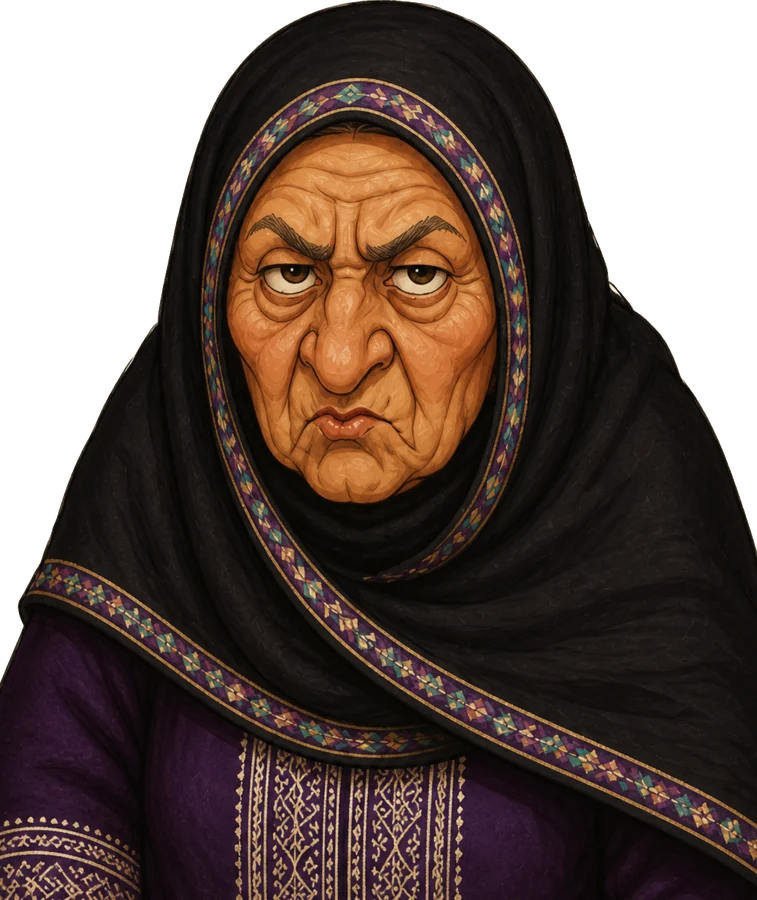
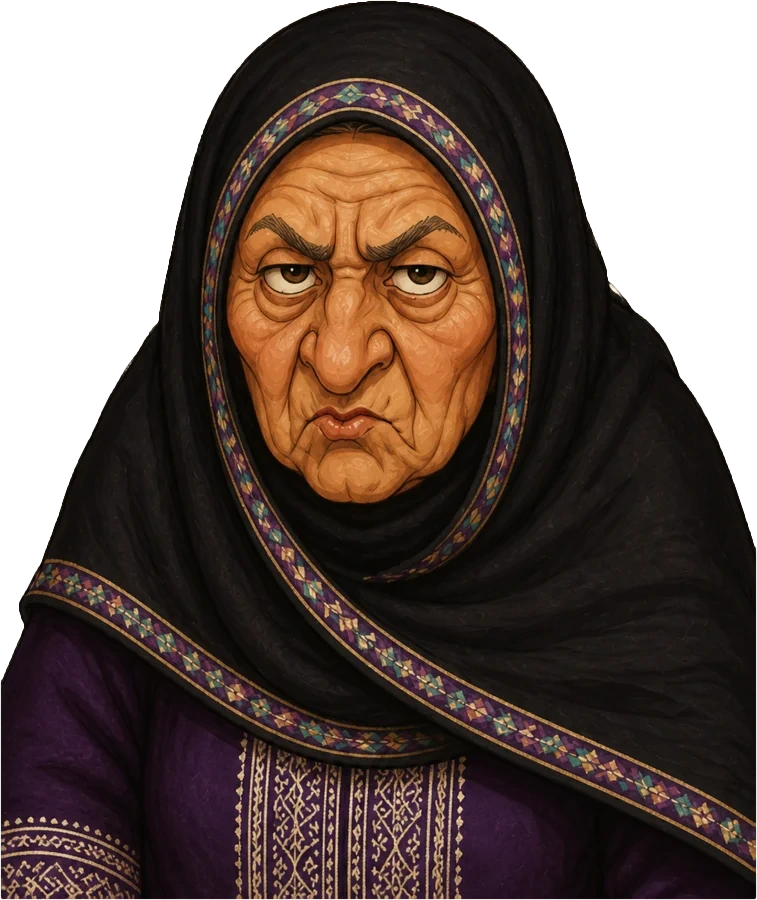
Cleaner character cut-outs, no shadow behind them
Claude-Session: https://claude.ai/code/session_01FGyGpGpRm57zRrxfNTDffQ

Changed region(s): [[0.0, 0.9956, 1.0, 1.0]]

diff --git a/sw.js b/sw.js
@@ -1,5 +1,5 @@
 /* Jeerah offline cache */
-const V='jeerah-202611262027';
+const V='jeerah-202611262046';
 const FILES=["app.css", "app.js", "assets/ad/mohup.png", "assets/ad/qr.svg", "assets/ad/sakna.png", "assets/audio/Ding.mp3", "assets/audio/alarm.mp3", "assets/audio/bgm.mp3", "assets/audio/chimes.mp3", "assets/audio/click_2.mp3", "assets/audio/ding_deep.mp3", "assets/audio/dum.mp3", "assets/audio/negative_sound.mp3", "assets/audio/voCouncil.mp3", "assets/audio/voEvening.mp3", "assets/audio/voMorning.mp3", "assets/audio/voPostEvening.mp3", "assets/audio/voWinGood.mp3", "assets/audio/voWinJester.mp3", "assets/audio/voWinSab.mp3", "assets/ch/complainer-bust.webp", "assets/ch/complainer-f-bust.webp", "assets/ch/complainer-f-face.webp", "assets/ch/complainer-f-full.webp", "assets/ch/complainer-face.webp", "assets/ch/complainer-full.webp", "assets/ch/fixer-bust.webp", "assets/ch/fixer-f-bust.webp", "assets/ch/fixer-f-face.webp", "assets/ch/fixer-f-full.webp", "assets/ch/fixer-face.webp", "assets/ch/fixer-full.webp", "assets/ch/legal-bust.webp", "assets/ch/legal-f-bust.webp", "assets/ch/legal-f-face.webp", "assets/ch/legal-f-full.webp", "assets/ch/legal-face.webp", "assets/ch/legal-full.webp", "assets/ch/resident-bust.webp", "assets/ch/resident-f-bust.webp", "assets/ch/resident-f-face.webp", "assets/ch/resident-f-full.webp", "assets/ch/resident-face.webp", "assets/ch/resident-full.webp", "assets/ch/saboteur-bust.webp", "assets/ch/saboteur-f-bust.webp", "assets/ch/saboteur-f-face.webp", "assets/ch/saboteur-f-full.webp", "assets/ch/saboteur-face.webp", "assets/ch/saboteur-full.webp", "assets/ch/smart-bust.webp", "assets/ch/smart-f-bust.webp", "assets/ch/smart-f-face.webp", "assets/ch/smart-f-full.webp", "assets/ch/smart-face.webp", "assets/ch/smart-full.webp", "assets/ch/solid-bust.webp", "assets/ch/solid-f-bust.webp", "assets/ch/solid-f-face.webp", "assets/ch/solid-f-full.webp", "assets/ch/solid-face.webp", "assets/ch/solid-full.webp", "assets/fonts/alexandria-arabic-wght-normal.woff2", "assets/fonts/alexandria-latin-wght-normal.woff2", "assets/fonts/lalezar-arabic-400-normal.woff2", "assets/fonts/lalezar-latin-400-normal.woff2", "assets/icons/icon-1024.png", "assets/icons/icon-180.png", "assets/icons/icon-192.png", "assets/icons/icon-32.png", "assets/icons/icon-512.png", "assets/icons/maskable-512.png", "assets/logo-full.svg", "assets/logo-mark.svg", "assets/scene/cover.webp", "assets/scene/window-elder.webp", "assets/scene/window-peek.webp", "back.js", "data.js", "index.html", "join.html", "join.js", "lib/peerjs.min.js", "lib/qrcode.js", "manifest.webmanifest", "net.js", "tv.css", "tv.html", "tv.js"];
 self.addEventListener('install',e=>{e.waitUntil(caches.open(V).then(c=>c.addAll(['./',...FILES])).then(()=>self.skipWaiting()))});
 self.addEventListener('activate',e=>{e.waitUntil(caches.keys().then(ks=>Promise.all(ks.filter(k=>k!==V).map(k=>caches.delete(k)))).then(()=>self.clients.claim()))});

diff --git a/app.css b/app.css
@@ -255,7 +255,7 @@ button.row:active{background:var(--tint)}
 .end-hero img.bust{height:92%;width:auto;max-width:none;-webkit-mask-image:linear-gradient(#000 76%,transparent);mask-image:linear-gradient(#000 76%,transparent);animation:rise .8s var(--ease) both}
 .end-hero img.wide{width:100%;height:100%;object-fit:cover;object-position:50% 22%;-webkit-mask-image:linear-gradient(#000 58%,transparent 98%);mask-image:linear-gradient(#000 58%,transparent 98%)}
 .end-hero .line{display:flex;align-items:flex-end;justify-content:center;height:100%;width:100%}
-.end-hero .line img{height:86%;width:auto;max-width:none;margin:0 -5%;filter:drop-shadow(0 12px 24px rgba(0,0,0,.3));animation:rise .8s var(--ease) both}
+.end-hero .line img{height:86%;width:auto;max-width:none;margin:0 -5%;animation:rise .8s var(--ease) both}
 .end-hero .line img:nth-child(2){height:94%;z-index:1;animation-delay:.08s}
 .end-hero .line img:nth-child(3){animation-delay:.16s}
 .roster{display:flex;flex-direction:column;gap:4px;margin-top:12px}
@@ -278,7 +278,7 @@ button.row:active{background:var(--tint)}
 .gallery::-webkit-scrollbar{display:none}
 .card{flex:0 0 100%;scroll-snap-align:center;display:flex;flex-direction:column;align-items:center;text-align:center;padding:0 32px}
 .card .art{flex:1 1 auto;min-height:0;display:flex;align-items:flex-end;justify-content:center;width:100%;position:relative}
-.card .art img{position:absolute;bottom:0;height:100%;width:auto;max-width:none;filter:drop-shadow(0 10px 18px rgba(0,0,0,.3))}
+.card .art img{position:absolute;bottom:0;height:100%;width:auto;max-width:none}
 .card h1{margin-top:18px;font-size:54px;line-height:1.15}
 .card p{font-size:15px;color:var(--ink2);margin-top:8px;max-width:30ch;min-height:76px;line-height:1.7}
 .dots{display:flex;justify-content:center;gap:8px;margin-top:8px;direction:ltr}
